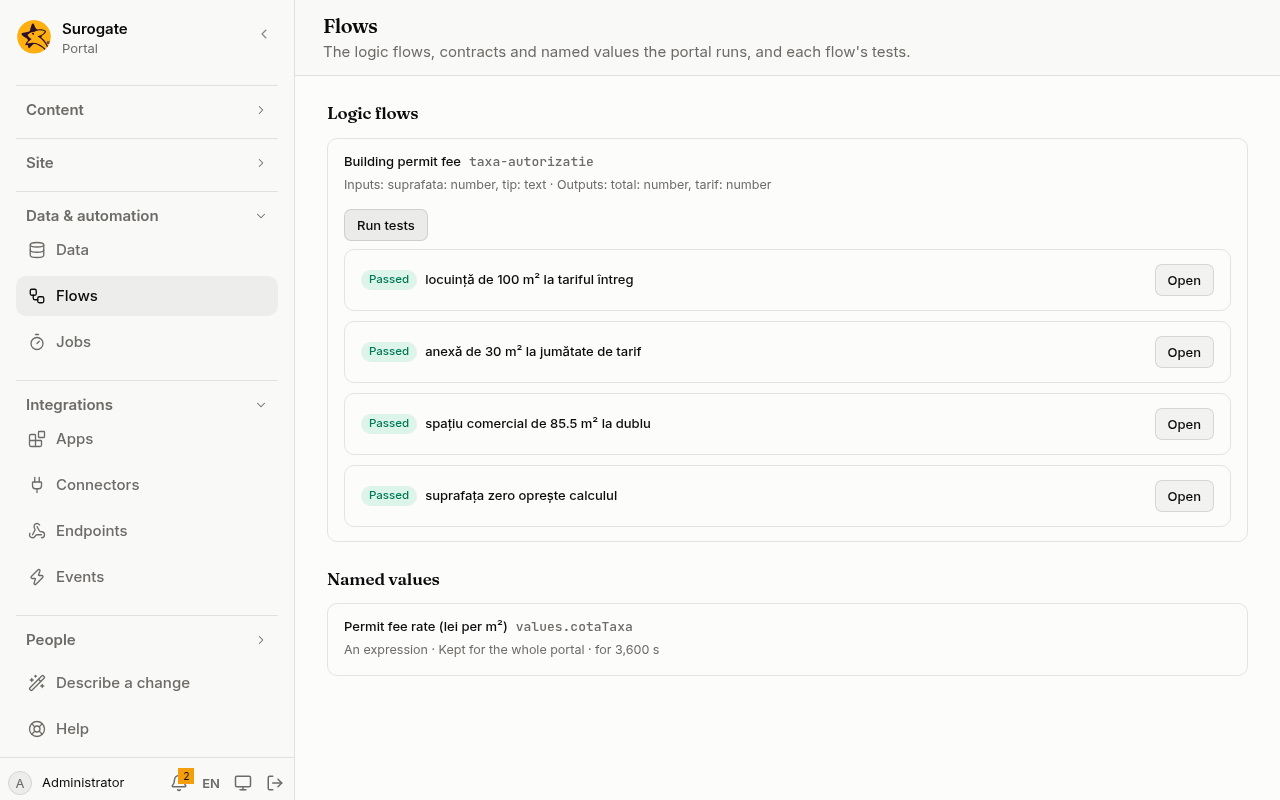
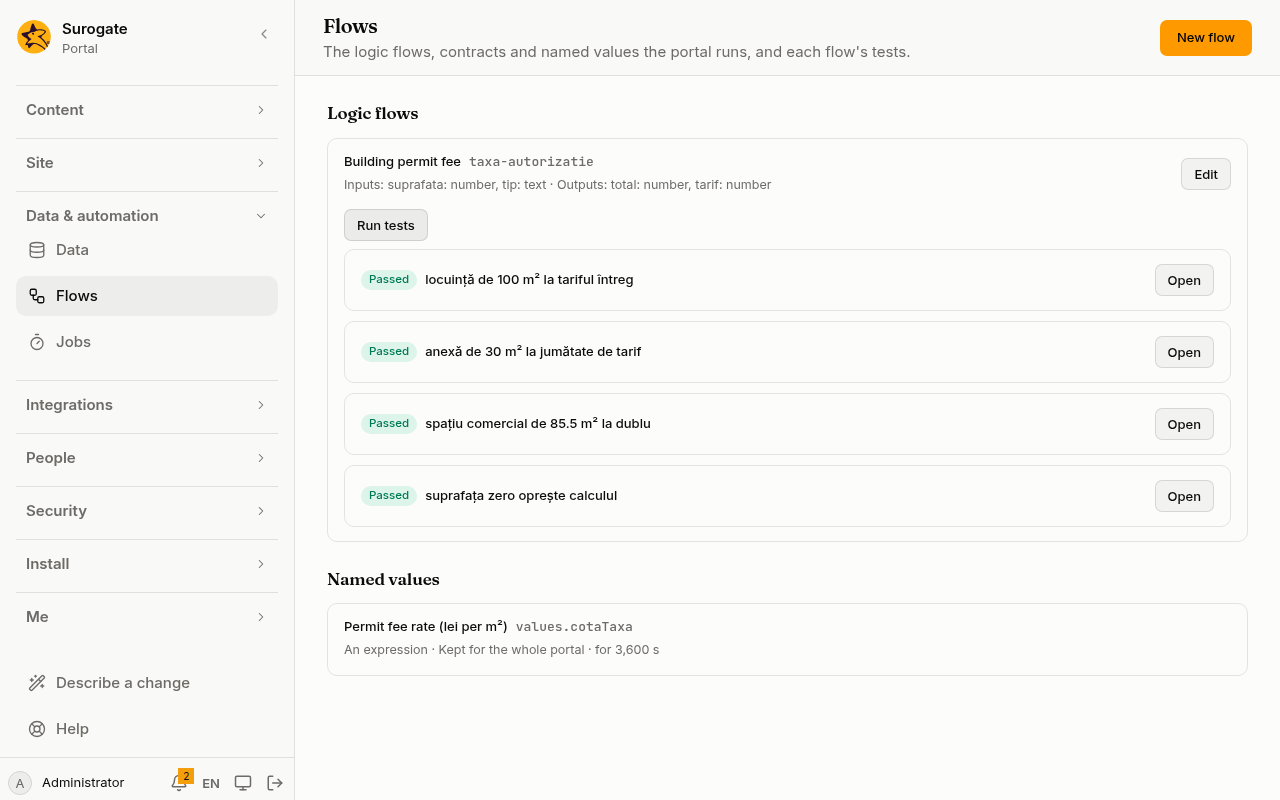
docs(portal): make and change logic flows in the console

diff --git a/tests/test_content.py b/tests/test_content.py
@@ -392,6 +392,10 @@ class Content(unittest.TestCase):
         for anchor in ('what-people-see', 'a-value', 'how-long-it-is-kept', 'when-a-value-fails'):
             self.assertIn(f'id="{anchor}"', values)
         self.assertIn('id="run-tests"', page('/portal/console/flows/'))
+        # Flows are made in the console.
+        self.assertIn('id="make-or-change-a-flow"', page('/portal/console/flows/'))
+        self.assertIn('href="/portal/console/flows/#make-or-change-a-flow"', doc)
+        self.assertNotIn('does not write them yet', (ROOT / 'src/content/docs/portal/sites/flows.md').read_text())
         self.assertIn('href="/portal/sites/flows/#call-a-flow"', page('/portal/sites/actions/'))
         for path in ('sites/flows.md', 'sites/values.md', 'console/flows.md'):
             source = (ROOT / 'src/content/docs/portal' / path).read_text()

diff --git a/src/content/docs/portal/console/flows.md b/src/content/docs/portal/console/flows.md
@@ -3,7 +3,7 @@ title: Flows
 description: The logic flows, contracts and named values the portal runs, and running each flow's tests.
 ---
 
-**Flows** shows administrators the [logic flows](/portal/sites/flows/), contracts and [named values](/portal/sites/values/) the portal runs now. This page shows them and runs their tests. The console does not write them yet. For now, this is set in the site's configuration: see [Developer: Logic flows](/portal/developer/flows/).
+**Flows** shows administrators the [logic flows](/portal/sites/flows/), contracts and [named values](/portal/sites/values/) the portal runs now. This page shows them, runs their tests, and makes and changes flows: see [Make or change a flow](#make-or-change-a-flow). Contracts and named values are still written in the site's configuration: see [Developer: Logic flows](/portal/developer/flows/).
 
 ## Logic flows
 
@@ -12,6 +12,25 @@ Each flow shows its name and id, the contract it implements, and its inputs and 
 ## Run tests
 
 **Run tests** runs the flow's tests one after another, and lists each as **Passed** or **Failed**, with why it failed. **Open** shows the outputs it gave and its log. The tests of one flow stop after 30 seconds; those left are listed as not run. A flow without tests cannot be run from here.
+
+## Make or change a flow
+
+**New flow** makes one and **Edit** opens one. A flow whose file has problems, or that was written by hand in a shape the console cannot draw, is listed under **Flows not running**, with **Edit**. The editor has three tabs:
+
+- **Settings:** the id (lower-case letters, digits and hyphens, fixed once saved), the name and description in each language, and **Follows a contract**: a contract's inputs and outputs, or the flow's own. Its own **Inputs** and **Outputs** are rows: a name like a variable's, a type, whether it **May be left out**, and a note.
+- **Steps:** **Starts at** names the first step. The map shows how the steps lead to each other, in columns from the start; a step nothing leads to stands apart, under **Nothing leads here**. Click a step, on the map or in the list, to open it:
+  - its name: change it, and every step that leads to it follows;
+  - its type: **Actions**, **Decision** or **End**;
+  - **Actions** runs an action list, built as a form's [steps](/portal/console/forms/#steps) are, and **Then** names the step after it;
+  - **Decision** has ways, each an **If** condition and the step to **go to**, and **Otherwise**, the step when no way holds; with none, the flow fails;
+  - **End** gives each output with an expression; a `*` marks one it must give.
+
+  **Add a step** adds one of the type chosen. Removing a step leaves what led to it naming a step that is gone, said at each, to be chosen again.
+- **Tests:** the flow's tests, each with what it expects. Renaming an input or an output carries the new name into the tests and the ends. A test can be removed here; tests are still written in the site's configuration.
+
+![The flow Building permit fee's Steps tab: Starts at verifica, and the map: the decision verifica leads to four action steps, invalid, standard, anexa and comercial, which all lead to calcul, then to the end final. Under the map, the steps listed one by one.](../../../../assets/screenshots/portal-flow-edit.png)
+
+Each problem is said at its field as you type, and **Save** waits until there are none; above the tabs, the editor says what it still needs and which tabs have problems. A problem in another file, such as an endpoint calling the flow without an input it now needs, is listed above the tabs with that file's name. **Remove** takes the flow away, after asking.
 
 ## Contracts and values
 

diff --git a/src/content/docs/portal/sites/flows.md b/src/content/docs/portal/sites/flows.md
@@ -9,11 +9,11 @@ A logic flow is a short piece of server logic. It takes typed inputs, works thro
 
 Flows have no page of their own: a person sees only what the form, job or endpoint that calls them does with the outputs. Administrators see the portal's flows under [Flows](/portal/console/flows/) in the console, with each flow's inputs and outputs. **Run tests** runs the flow's tests and shows each one passing or failing:
 
-![The Flows page: the flow "Building permit fee" with its inputs and outputs, four tests marked Passed, and under Named values the permit fee rate.](../../../../assets/screenshots/portal-flows-tests.png)
+![The Flows page with New flow: the flow "Building permit fee" with its inputs and outputs, Edit, four tests marked Passed, and under Named values the permit fee rate.](../../../../assets/screenshots/portal-flows-tests.png)
 
 ## A flow
 
-A flow has an id of lower-case letters, digits and hyphens, and a name. The console shows the flows the portal runs; it does not write them yet. For now, this is set in the site's configuration: see [Developer: Logic flows](/portal/developer/flows/#a-flow).
+A flow has an id of lower-case letters, digits and hyphens, and a name. Flows are made and changed in the console, under [Flows](/portal/console/flows/#make-or-change-a-flow). Developers can also write them in the site's configuration: see [Developer: Logic flows](/portal/developer/flows/#a-flow).
 
 **Inputs and outputs** are names with a type: `text`, `number`, `integer`, `boolean`, `list`, `object` or `any`. An input may be optional, which means it may be left out. A flow has at most 32 of each.
 
@@ -30,7 +30,7 @@ Expressions in a flow read the flow's inputs, the person, the site, the language
 
 An action list calls a flow by its id, and keeps its outputs for the actions after it. The inputs are checked against the flow's types when the call runs. If the flow fails, the calling action fails with the message `Flow <id>: …`, and the list's error handling can catch it. Flows can call other flows, at most 8 deep. A flow's steps count toward the run's 10 seconds and 10,000 steps.
 
-For now, this is set in the site's configuration: see [Developer: Logic flows](/portal/developer/flows/#call-a-flow).
+In the console, **Run a logic flow** calls one from any action list: a form's [steps](/portal/console/forms/#steps), an endpoint's or a job's actions, or another flow's. Developers can also write it in the site's configuration: see [Developer: Logic flows](/portal/developer/flows/#call-a-flow).
 
 ## Contracts
 
